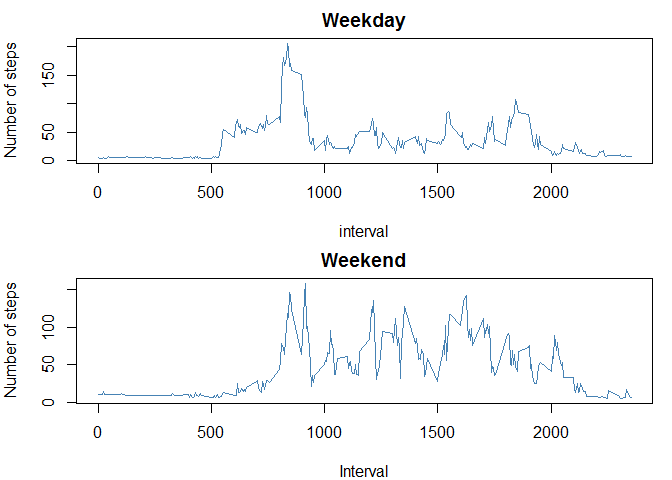
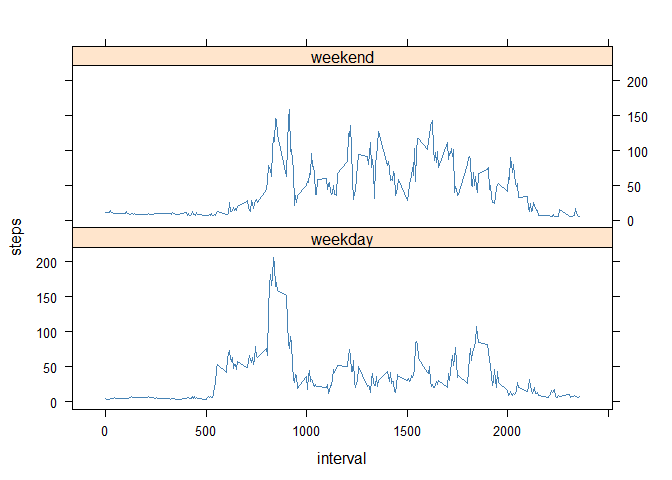
now finish

diff --git a/PA1_template.html b/PA1_template.html
@@ -225,24 +225,12 @@ table(activity$weekday)</code></pre>
 <ol start="2" style="list-style-type: decimal">
 <li>Make a panel plot containing a time series plot (i.e. type = “l”) of the 5-minute interval (x-axis) and the average number of steps taken, averaged across all weekday days or weekend days (y-axis). See the README file in the GitHub repository to see an example of what this plot should look like using simulated data.</li>
 </ol>
-<pre class="r"><code>activity.interval.wday&lt;-aggregate(steps~interval,
-                                  data=activity[activity$weekday==&quot;weekday&quot;,],
+<pre class="r"><code>activity.interval.w&lt;-aggregate(steps~interval+weekday,
+                                  data=activity,
                                   mean,na.rm=TRUE)
-
-activity.interval.wend&lt;-aggregate(steps~interval,
-                                  data=activity[activity$weekday==&quot;weekend&quot;,],
-                                  mean,na.rm=TRUE)
-
-
-par(mfrow=c(2,1),mar=c(4,4,2,1))
-
-with(activity.interval.wday,
-     plot(y=steps ,x=interval ,type = &quot;l&quot;, 
-          ylab = &quot;Number of steps&quot;,main=&quot;Weekday&quot;,col=&quot;steelblue&quot;))
-with(activity.interval.wend,
-     plot(y=steps ,x=interval ,type = &quot;l&quot;,xlab = &quot;Interval&quot;, 
-          ylab = &quot;Number of steps&quot;,main=&quot;Weekend&quot;,col=&quot;steelblue&quot;))</code></pre>
[1 lines of base64/hex data omitted]
+library(lattice)
+xyplot(steps~interval | weekday, data=activity.interval.w,layout=c(1,2),type=&quot;l&quot;,col=&quot;steelblue&quot;)</code></pre>
[1 lines of base64/hex data omitted]
 </div>
 
 

diff --git a/PA1_template.md b/PA1_template.md
@@ -149,23 +149,11 @@ table(activity$weekday)
 
 
 ```r
-activity.interval.wday<-aggregate(steps~interval,
-                                  data=activity[activity$weekday=="weekday",],
+activity.interval.w<-aggregate(steps~interval+weekday,
+                                  data=activity,
                                   mean,na.rm=TRUE)
-
-activity.interval.wend<-aggregate(steps~interval,
-                                  data=activity[activity$weekday=="weekend",],
-                                  mean,na.rm=TRUE)
-
-
-par(mfrow=c(2,1),mar=c(4,4,2,1))
-
-with(activity.interval.wday,
-     plot(y=steps ,x=interval ,type = "l", 
-          ylab = "Number of steps",main="Weekday",col="steelblue"))
-with(activity.interval.wend,
-     plot(y=steps ,x=interval ,type = "l",xlab = "Interval", 
-          ylab = "Number of steps",main="Weekend",col="steelblue"))
+library(lattice)
+xyplot(steps~interval | weekday, data=activity.interval.w,layout=c(1,2),type="l",col="steelblue")
 ```
 
 ![](PA1_template_files/figure-html/unnamed-chunk-12-1.png)<!-- -->
